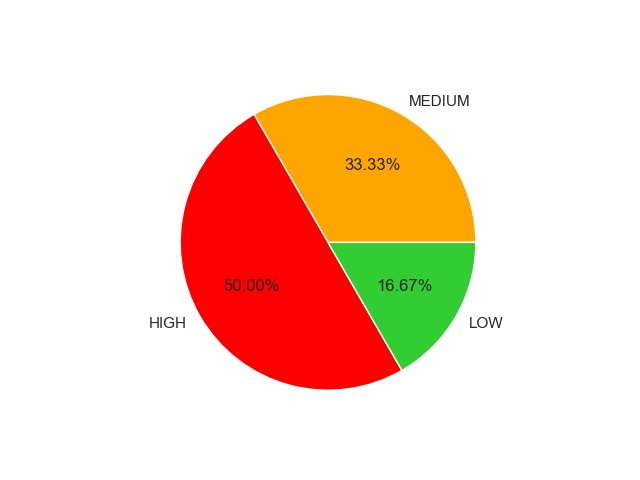
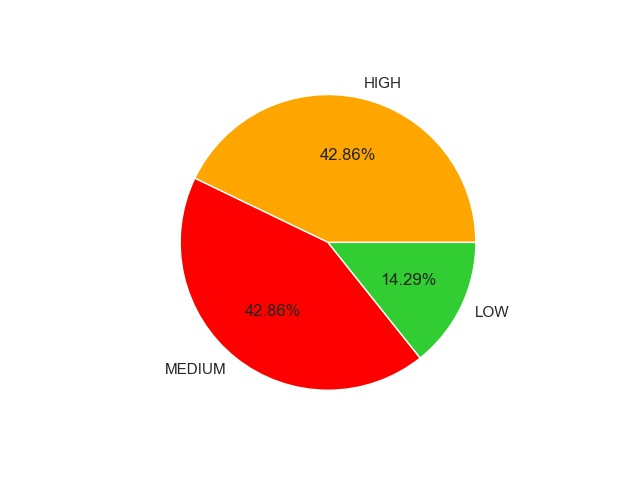
update layout and add cve search

diff --git a/IPsecurity/vscanner/templates/Ip.html b/IPsecurity/vscanner/templates/Ip.html
@@ -1,0 +1,67 @@
+{% extends "base_generic.html" %}
+<!-- Add additional CSS in static file -->
+{% load static %}
+
+{% block content %}
+
+	<form action="output" method="post">
+		{% csrf_token %}
+		Input IP:
+		<input placeholder="input Ip address" type="text" name="param" required><br><br>		
+		<br>
+		<input type="submit" value="Search">
+	</form>
+	<form action="cve" method="post">
+		{% csrf_token %}
+		Input CVE:
+		<input placeholder="input CVE" type="text" name="cve" required><br><br>		
+		<br>
+		<input type="submit" value="Search">
+	</form>
+<div class="row">
+	<div class="6u 12u(3)">
+	{% if data %}
+	{{data|linebreaks}}
+	{% endif %}
+	</div>
+	
+	<div class="6u 12u(3)">
+		{% if cve_list %}
+		<h3>cwe分布圖</h3>
+		<img src="{% static 'images/bar.jpg' %}" width="60%"> <br></br>
+		{% endif %}
+	</div>
+</div>
+<div class="row">
+	<div class="6u 12u(3)">
+	{% if cve_list %}
+  <ul>
+	  <h3>CVE:</h3>
+    {% for cve,cvss in cve_list.items %}
+      <li>
+        <a href="{% url 'cve_detail' cve %}">{{cve}}</a>
+		
+		{% if cvss == "HIGH" %}
+			:<span style="background-color:red;color:white">{{cvss}}</span> 
+		{% elif cvss == "MEDIUM" %}
+			:<span style="background-color:gold;color:white">{{cvss}}</span> 
+		{% elif cvss == "LOW" %}
+			:<span style="background-color:green;color:white">{{cvss}}</span> 
+		{% endif %}
+		
+      </li>
+    {% endfor %}
+  </ul>
+	{% endif %}       
+	</div>
+	
+	
+	<div class="6u 12u(3)">
+	{% if cve_list %}
+		<h3>cve嚴重分布圖</h3>
+		<img src="{% static 'images/pie.jpg' %}" width="60%">
+	{% endif %}
+	</div>
+	
+</div>
+{% endblock %}

diff --git a/IPsecurity/vscanner/templates/cve.html b/IPsecurity/vscanner/templates/cve.html
@@ -19,4 +19,24 @@
 		<input type="submit" value="Search">
 	</form>
 
+	{% if cve_list %}
+  <ul>
+	  <h3>CVE:</h3>
+    {% for cve,cvss in cve_list.items %}
+      <li>
+        <a href="{% url 'cve_detail' cve %}">{{cve}}</a>
+		
+		{% if cvss == "HIGH" %}
+			:<span style="background-color:red;color:white">{{cvss}}</span> 
+		{% elif cvss == "MEDIUM" %}
+			:<span style="background-color:gold;color:white">{{cvss}}</span> 
+		{% elif cvss == "LOW" %}
+			:<span style="background-color:green;color:white">{{cvss}}</span> 
+		{% endif %}
+		
+      </li>
+    {% endfor %}
+  </ul>
+	{% endif %}       
+
 {% endblock %}

diff --git a/IPsecurity/vscanner/templates/base_generic.html b/IPsecurity/vscanner/templates/base_generic.html
@@ -23,7 +23,7 @@
 
 		<!-- Header -->
 			<header id="header">
-				<h1><a href="">VulnerabilityScanner</a></h1>
+				<h1><a href="{% url 'home' %}">VulnerabilityScanner</a></h1>
 			</header>
 
 		<!-- Main -->

diff --git a/IPsecurity/vscanner/views.py b/IPsecurity/vscanner/views.py
@@ -81,7 +81,19 @@ def output(request):
     
     cve_dict = dict(zip(CveList,CVSS))
 
-    return render(request,'home.html',{'data':Ip_inf,'cve_list':cve_dict})
+    return render(request,'Ip.html',{'data':Ip_inf,'cve_list':cve_dict})
+
+def cve(request):
+    cve = request.POST.get('cve')  # ip input
+    cve_list = list(cve.split(' '))
+    cvss = list()
+    cwe = list()
+    for cve in cve_list:
+        Get_Chart(cve, cvss, cwe)
+    cve_dict = dict(zip(cve_list,cvss))
+
+    return render(request,'cve.html',{'cve_list':cve_dict})
+
 
 def detail(request,CVE):
     

diff --git a/IPsecurity/vscanner/urls.py b/IPsecurity/vscanner/urls.py
@@ -3,7 +3,8 @@ from . import views
 
 
 urlpatterns = [
-        path('', views.button),
+        path('', views.button,name='home'),
         path('output',views.output,name='script'),
+        path('cve',views.cve,name='cve'),
         path('detail/<str:CVE>/',views.detail,name='cve_detail')
 ]
